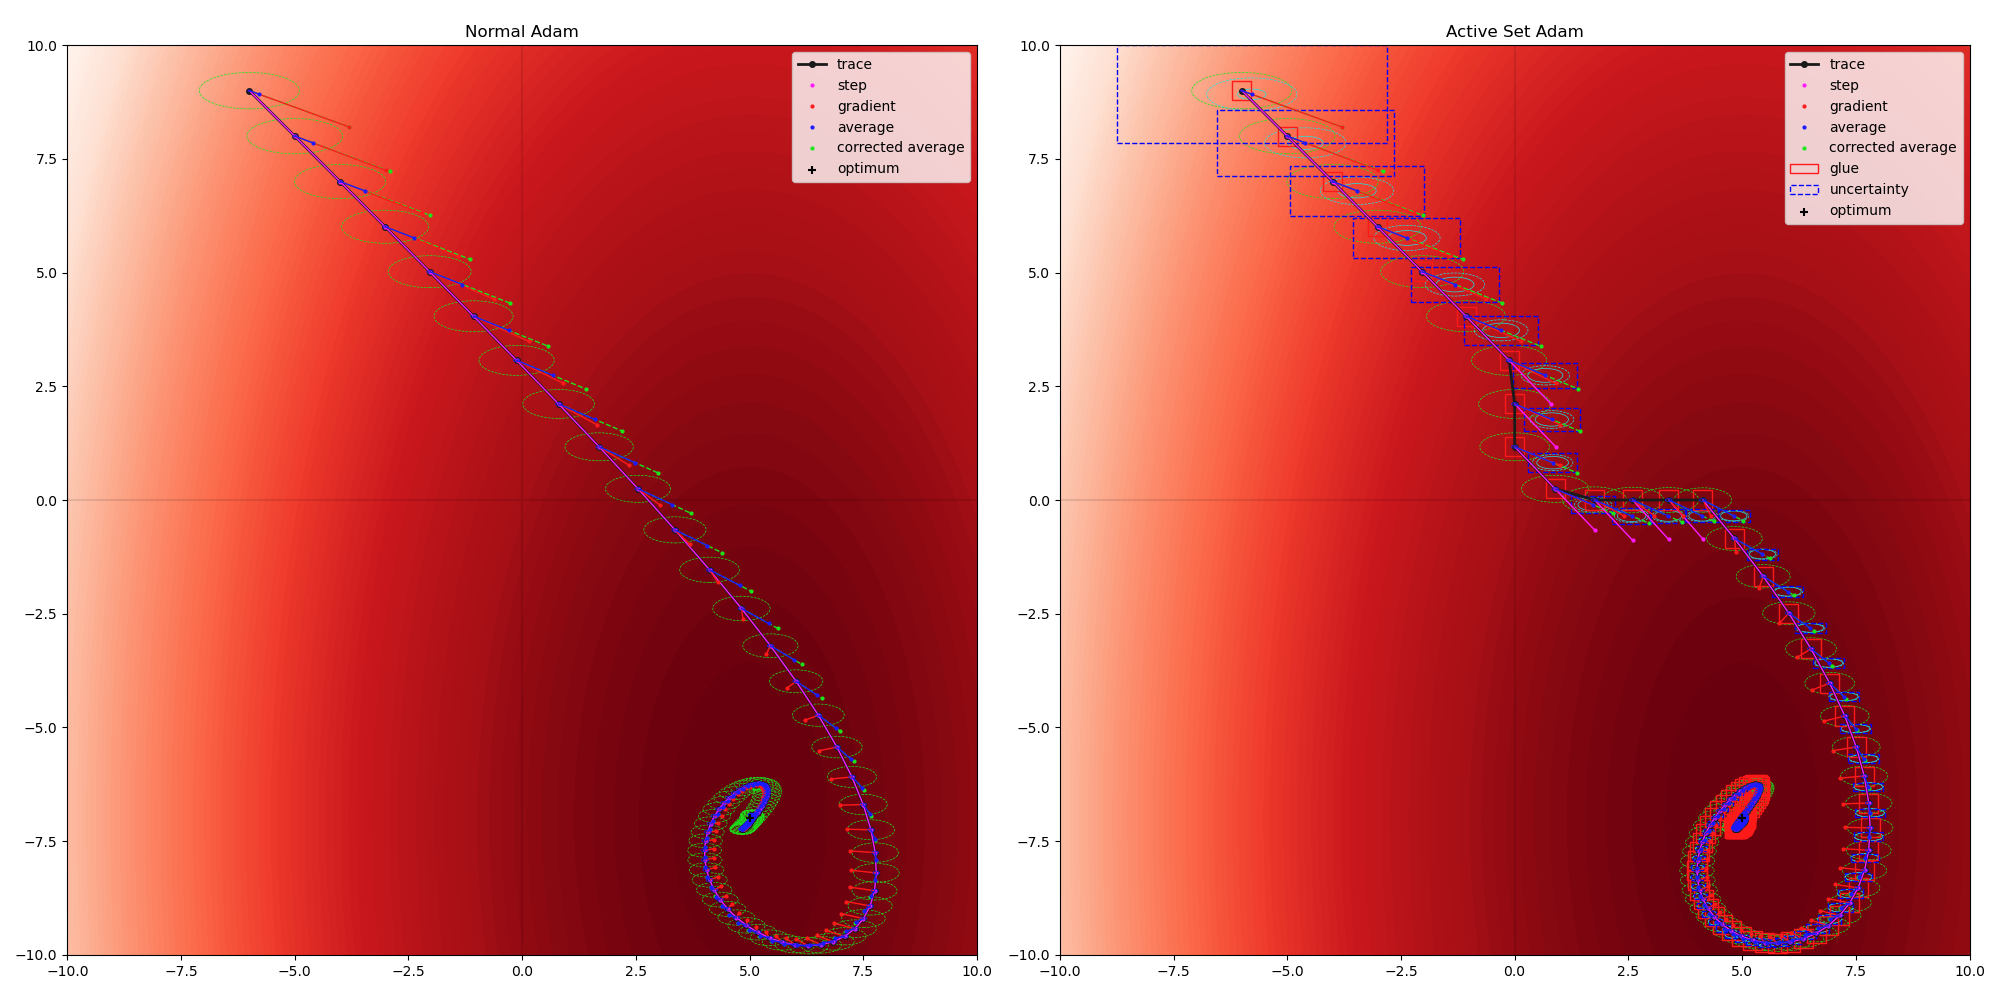
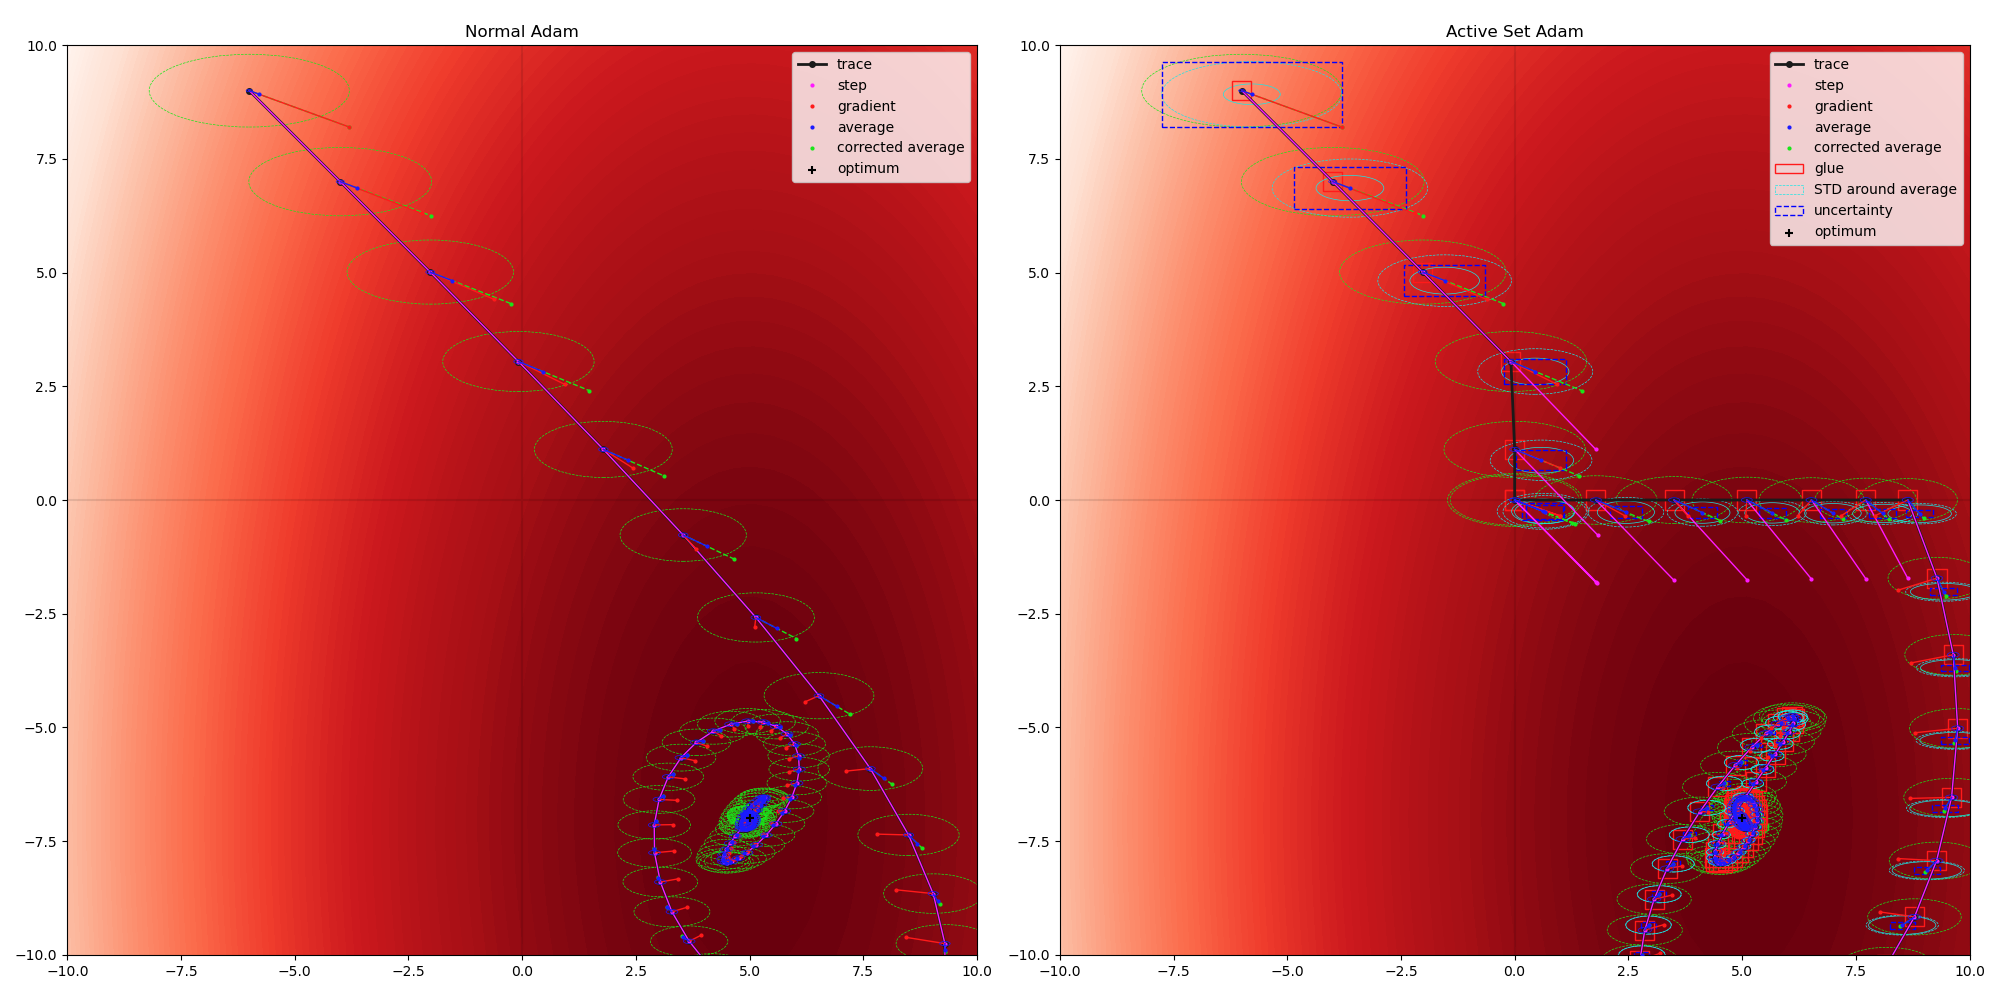
update demo

diff --git a/demo.py b/demo.py
@@ -4,8 +4,8 @@ import numpy as np
 import torch
 from torch.nn import Module, Parameter
 import matplotlib.pyplot as plt
-from matplotlib.patches import Rectangle
-from matplotlib.collections import EllipseCollection, PatchCollection
+from matplotlib.patches import Rectangle, Ellipse
+from matplotlib.collections import EllipseCollection, PolyCollection
 
 from asadam import ASAdam
 
@@ -27,12 +27,17 @@ class M(Module):
 
 
 def plot_pins(locs, heads, ax, head_style='o', pin_style='-', label=None, **kwargs):
-    ax.plot(*(heads).t(), head_style, label=label, **kwargs)
+    ax.plot(*(heads).transpose(), head_style, label=label, **kwargs)
     ax.plot(*np.array([[list(x), list(y), [np.nan, np.nan]] for x, y in zip(locs, heads)]).reshape(-1, 2).transpose(),
         pin_style, **kwargs)
 
 
-def plot_halos(widths, heights, offsets, ax, **kwargs):
+def plot_halos(widths, heights, offsets, ax, label=None, **kwargs):
+    if label is not None:
+        ax.add_patch(Ellipse(xy=offsets[0], width=widths[0], height=heights[0], label=label, **kwargs))
+        widths = widths[1:]
+        heights = heights[1:]
+        offsets = offsets[1:]
     ax.add_collection(EllipseCollection(widths=widths, heights=heights,
                                         angles=np.zeros_like(widths),
                                         units='xy',
@@ -42,10 +47,20 @@ def plot_halos(widths, heights, offsets, ax, **kwargs):
 
 
 def plot_boxes(sizes, offsets, ax, label=None, **kwargs):
-    label_ = label
-    for loc, s in zip(offsets, sizes):
-        ax.add_patch(Rectangle(loc - s / 2, *s, label=label_, **kwargs))
-        label_ = None
+    bottom_left = offsets - sizes / 2
+    bottom_right = bottom_left.copy()
+    bottom_right[:, 0] += sizes[:, 0]
+    top_left = bottom_left.copy()
+    top_left[:, 1] += sizes[:, 1]
+    top_right = offsets + sizes / 2
+    verts = np.concatenate((bottom_left[:, None, :],
+                            bottom_right[:, None, :],
+                            top_right[:, None, :],
+                            top_left[:, None, :]), axis=1)
+    if label is not None:
+        ax.add_patch(Rectangle(offsets[0] - sizes[0] / 2, *sizes[0], label=label, **kwargs))
+        verts = verts[1:]
+    ax.add_collection(PolyCollection(verts=verts, **kwargs))
 
 
 if __name__ == "__main__":
@@ -54,11 +69,11 @@ if __name__ == "__main__":
     n_grid = 50
     D = 2
     n_iterations = 100
-    lr = 1e-0
+    lr = 2
 
     l1 = None
     glue = 0.21
-    safety = 1.5
+    safety = 1
     active = True
 
     fig, axes = plt.subplots(1, 2, figsize=(20, 10))
@@ -100,9 +115,9 @@ if __name__ == "__main__":
             print(f"{module.loc.detach().numpy()}: {loss}")
 
         # post process stats
-        trace = torch.cat(tuple(t[None, :] for t in trace))
+        trace = torch.cat(tuple(t[None, :] for t in trace)).detach().clone().numpy()
         for key, val in stats.items():
-            stats[key] = torch.cat(tuple(t[None, :] for t in val))
+            stats[key] = torch.cat(tuple(t[None, :] for t in val)).detach().clone().numpy()
 
         # define grid for heatmap
         # 1D space used for each dimension
@@ -112,7 +127,7 @@ if __name__ == "__main__":
         # flatten and concatenate along new dimension to get grid of coordinates
         locs = torch.cat(tuple(l.flatten()[..., None] for l in xyz), dim=-1)
         # evaluate function on grid
-        f = module.loss(locs).reshape(*(n_grid,) * D).t()
+        f = module.loss(locs).reshape(*(n_grid,) * D).transpose(-2, -1)
 
         # objective
         ax.contourf(grid, grid, f, 100, zorder=-10, cmap='Reds_r')
@@ -122,44 +137,47 @@ if __name__ == "__main__":
         ax.plot([-plot_range, plot_range, np.nan, 0, 0], [0, 0, np.nan, -plot_range, plot_range], c=(0, 0, 0, 0.1))
         # trace
         c = (0.1, 0.1, 0.1)
-        ax.plot(*trace.t(), '-o', linewidth=2, markersize=4, color=c, label='trace')
+        ax.plot(*trace.transpose(), '-o', linewidth=2, markersize=4, color=c, label='trace')
         ax.scatter(*trace[0], s=5, color=c)
         # step
         plot_pins(locs=trace[:-1], heads=trace[:-1] - stats["eff_grad"] * lr,
                   ax=ax, markersize=2, linewidth=1, color=(1, 0.1, 1), label='step')
         # true grad
         c = (1, 0.1, 0.1)
-        plot_pins(locs=trace, heads=trace[:-1] - stats["true_grad"],
+        plot_pins(locs=trace[:-1], heads=trace[:-1] - stats["true_grad"],
                   ax=ax, linewidth=1, markersize=2, label='gradient', color=c, zorder=2)
         # average
         c = (0.1, 0.1, 1)
         plot_pins(locs=trace[:-1], heads=trace[:-1] - stats["exp_avg"],
                   ax=ax, linewidth=1, markersize=2, label='average', color=c, zorder=3)
-        plot_halos(*(stats["exp_avg_std"].t()), offsets=trace[:-1],
+        plot_halos(*(2 * stats["exp_avg_std"].transpose()), offsets=trace[:-1],
                    ax=ax, ec=c, fc=(0, 0, 0, 0), linewidth=0.5, linestyle='-', zorder=3)
         # corrected average
         c = (0.1, 0.9, 0.1)
         plot_pins(locs=trace[:-1], heads=trace[:-1] - stats["exp_avg_corr"],
                   ax=ax, pin_style='--', linewidth=1, markersize=2, label='corrected average', color=c, zorder=1)
-        plot_halos(*(stats["exp_avg_std_corr"].t()), offsets=trace[:-1],
+        plot_halos(*(2 * stats["exp_avg_std_corr"].transpose()), offsets=trace[:-1],
                    ax=ax, ec=c, fc=(0, 0, 0, 0), linewidth=0.5, linestyle='--', zorder=1)
         if asadam:
-            # variance
-            c = (0.1, 0.9, 0.9)
-            plot_halos(*(stats["exp_avg_var"].sqrt().t()), offsets=trace[:-1] - stats["exp_avg"],
-                       ax=ax, ec=c, fc=(0, 0, 0, 0), linewidth=0.5, linestyle='-', label="variance")
-            plot_halos(*(stats["exp_avg_var_corr"].sqrt().t()), offsets=trace[:-1] - stats["exp_avg"],
-                       ax=ax, ec=c, fc=(0, 0, 0, 0), linewidth=0.5, linestyle='--')
+
             # L1 boxes
             c = (1, 0.1, 0.1)
             if l1 is not None:
-                plot_boxes(sizes=np.ones((n_iterations, 2)) * 2 * l1, offsets=trace,
+                plot_boxes(sizes=np.ones((n_iterations, 2)) * 2 * l1, offsets=trace[:-1],
                            ax=ax, ec=c, fc=(0, 0, 0, 0), linewidth=1, linestyle='--', label="L1")
+            # L1 + glue boxes
             if glue is not None:
-                plot_boxes(sizes=np.ones((n_iterations, 2)) * 2 * ((l1 if l1 is not None else 0.) + glue), offsets=trace,
+                plot_boxes(sizes=np.ones((n_iterations, 2)) * 2 * ((l1 if l1 is not None else 0.) + glue),
+                           offsets=trace[:-1],
                            ax=ax, ec=c, fc=(0, 0, 0, 0), linewidth=1, linestyle='-',
                            label=f"{('L1 + ' if l1 is not None else '')}glue")
-            # confidence boxes
+            # variance
+            c = (0.1, 0.9, 0.9)
+            plot_halos(*(2 * np.sqrt(stats["exp_avg_var"]).transpose()), offsets=trace[:-1] - stats["exp_avg"],
+                       ax=ax, ec=c, fc=(0, 0, 0, 0), linewidth=0.5, linestyle='-')
+            plot_halos(*(2 * np.sqrt(stats["exp_avg_var_corr"]).transpose()), offsets=trace[:-1] - stats["exp_avg"],
+                       ax=ax, ec=c, fc=(0, 0, 0, 0), linewidth=0.5, linestyle='--', label="STD around average")
+            # bounds
             c = (0, 0, 1)
             plot_boxes(sizes=stats["uncertainty"] * 2 * safety, offsets=trace[:-1] - stats["exp_avg"],
                        ax=ax, ec=c, fc=(0, 0, 0, 0), linewidth=1, linestyle='--', label="uncertainty")
